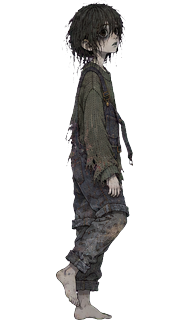
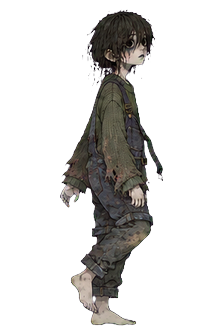
Replace the walk with eight frames; a metadata block fixed the scale drift
Two attempts at an eight-frame cycle failed the same way: the poses
were right and the figure sizes were not. Eight figures in one row also
halved the width available to each, so detail dropped below the
accepted four-frame sheet.

The third attempt used an explicit metadata block pinning layout as two
rows of four, declaring figure scale identical with hair tops and foot
soles on one height guide, and separating what may vary between frames
from what must stay identical. That produced eight usable frames on the
first try. Measured after slicing, the raw heights span 17 px, which is
the gait's own rise and fall rather than drift.

The eight are scaled by one shared factor rather than normalised
individually, so the body dropping on the down poses and rising on the
up poses survives into the game, and bottom-aligned on a common
baseline so the feet never float. The code bob is reduced to a trace
now that the art carries the weight, and the stride is 28 px, about
eleven frames a second at full speed.

Changed region(s): [[0.2632, 0.0, 0.7368, 1.0]]

diff --git a/SOURCES.md b/SOURCES.md
@@ -48,3 +48,8 @@ One row per generation kept or seriously considered. Neither Gemini nor ChatGPT 
 
 **Verified in engine for both:** the upright track starts with the slice, the flip cuts straight to the memory track and back, M silences both and unmuting resumes whichever world the player is in, and the loop wraps from 31.4 s to 0.8 s still playing. Both tracks share key and tempo so the cut has no musical lurch. Delivered as WAV, which the assignment permits alongside OGG; `loop_mode` is set in code with an explicit `loop_end`, because enabling the mode alone produces a zero-length loop that stops instantly.
 | PLAT-PLANK, PLAT-CRATES | Not generated — drawn in code by Claude (Python/Pillow), 2026-10-06 | Two plank boards (warm and cold variants, 240 × 34) and a stacked-crate blocker (230 × 420), drawn with flat fills, dark outlines, grain lines and a top highlight | **Accepted as placeholders only.** They hold the level together mechanically but read as programmer art against the painted rooms. Logged here because the asset log must keep code-drawn art distinct from generated art; these satisfy no generative requirement and are named as an open limitation in the README | n/a | `godot/assets/art/plat_plank_warm.png`, `plat_plank_cold.png`, `plat_crates.png` |
+| CHAR-WALK8-A | ChatGPT image generation, chatgpt.com, 2026-10-06 | Eight-frame cycle in a single row, each frame named by the standard animation breakdown (contact / down / passing / up, then mirrored) | **Rejected** — eight figures across one canvas halves the width available to each, so detail fell well below the accepted four-frame sheet. Figure heights also drifted and the eighth frame was cropped at the edge | None | `design/character/rejects/CHAR-WALK8-A-eight-in-a-row-too-small.jpg` |
+| CHAR-WALK8-B | ChatGPT image generation, chatgpt.com, 2026-10-06 | Different approach: the accepted four-frame sheet attached as a scale anchor, asking only for the four in-between poses "drawn at exactly the same scale and framing as the attached walk sheet" | **Rejected** — worse than the first attempt. Figure scale varied sharply between frames, two noticeably larger than the others, and the down and up poses did not read as distinct body heights, which was the entire purpose of the in-betweens | None | `design/character/rejects/CHAR-WALK8-B-inbetweens-scale-drift.jpg` |
+| CHAR-WALK8 | ChatGPT image generation, chatgpt.com, 2026-10-06 | Third attempt, rewritten with an explicit metadata block after diagnosing that both failures were scale drift rather than pose error. The block pinned **Layout:** 2 rows × 4 columns; **Figure scale:** IDENTICAL for all eight, hair tops and foot soles aligned to one height guide, no zoom or camera-distance change; **Varies between frames:** legs, arms and body height only; **Identical between frames:** face, eyes, hair, sweater, dungarees, trousers, bare feet, head turned to the viewer; plus baseline, margins, background and an exclusion list. Both the character reference and the accepted four-frame sheet were attached with their roles named | **Accepted** — eight frames at consistent scale with the detail of the four-frame sheet preserved. Measured after slicing: raw figure heights 423, 423, 426, 423, 409, 409, 411, 411 px, a spread of 17 px across the whole sheet, which is the rise and fall of the gait rather than drift. The two-row layout was the fix: four figures per row is the density the accepted sheet already proved | Local edits by Claude (Python/Pillow): soft magenta key with de-spill; rows found by scanning for empty horizontal bands and figures by scanning for empty columns; all eight scaled by **one shared factor** rather than normalised individually, so the body's rise and fall between the down and up poses survives; bottom-aligned on a common baseline so the feet never float or sink; output 223 × 332 each | `godot/assets/art/char_walk_1..8.png`; raw `design/character/char-walk8-raw.png`; strip `design/character/walkcycle8-sliced.png` |
+
+**What the three attempts established:** the failure was never the pose description, it was scale. Naming the eight poses correctly produced correct poses at inconsistent sizes twice over. Stating the scale rule as an explicit constraint, and separating what may vary from what must stay identical, fixed it on the first try.
